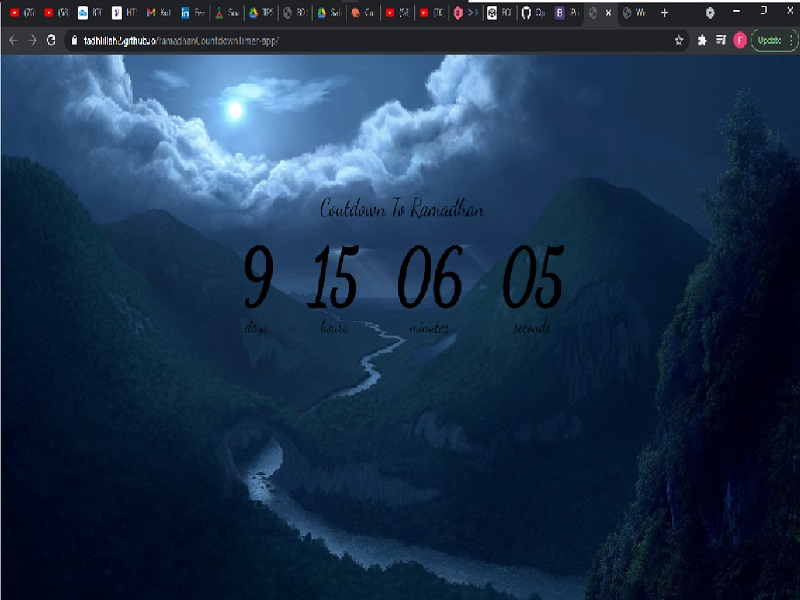
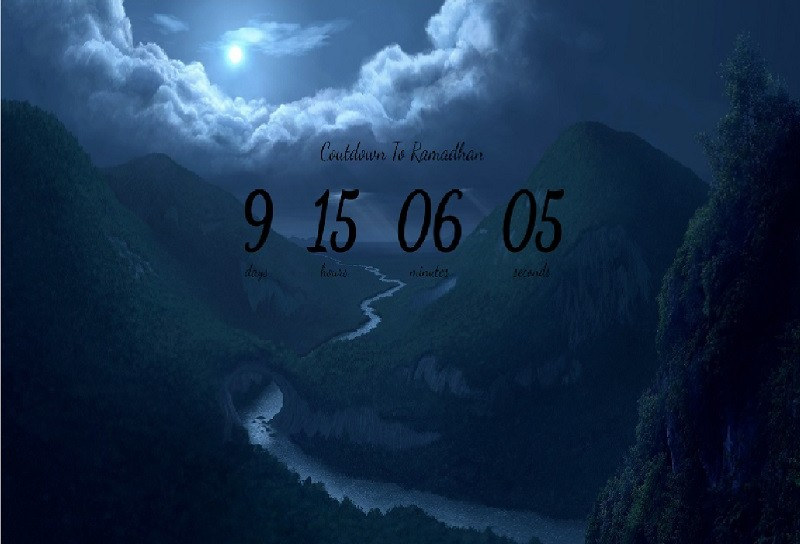
Portfolio thumbnails: crop browser tab/address bar chrome out of countdown.jpg and quiz.jpg (only 2 of 9 shots had it), update width/height to 800x544

diff --git a/index.html b/index.html
@@ -515,7 +515,7 @@
 
           <div class="col-lg-4 col-md-6 portfolio-item filter-app">
             <div class="portfolio-wrap">
-              <img src="assets/img/countdown.jpg" class="img-fluid" alt="Ramadan countdown timer screenshot" loading="lazy" decoding="async" width="800" height="600">
+              <img src="assets/img/countdown.jpg" class="img-fluid" alt="Ramadan countdown timer screenshot" loading="lazy" decoding="async" width="800" height="544">
               <div class="portfolio-links">
                 <a href="https://fadhlillah2.github.io/ramadhanCountdownTimer-app/" target="_blank" rel="noopener" aria-label="Open Ramadan countdown timer" title="Ramadan countdown timer"><i class="bi bi-link-45deg" aria-hidden="true"></i></a>
               </div>
@@ -524,7 +524,7 @@
 
           <div class="col-lg-4 col-md-6 portfolio-item filter-card">
             <div class="portfolio-wrap">
-              <img src="assets/img/quiz.jpg" class="img-fluid" alt="Quiz app screenshot" loading="lazy" decoding="async" width="800" height="600">
+              <img src="assets/img/quiz.jpg" class="img-fluid" alt="Quiz app screenshot" loading="lazy" decoding="async" width="800" height="544">
               <div class="portfolio-links">
                 <a href="https://fadhlillah2.github.io/quiz-app/" target="_blank" rel="noopener" aria-label="Open Quiz app" title="Quiz app"><i class="bi bi-link-45deg" aria-hidden="true"></i></a>
               </div>
